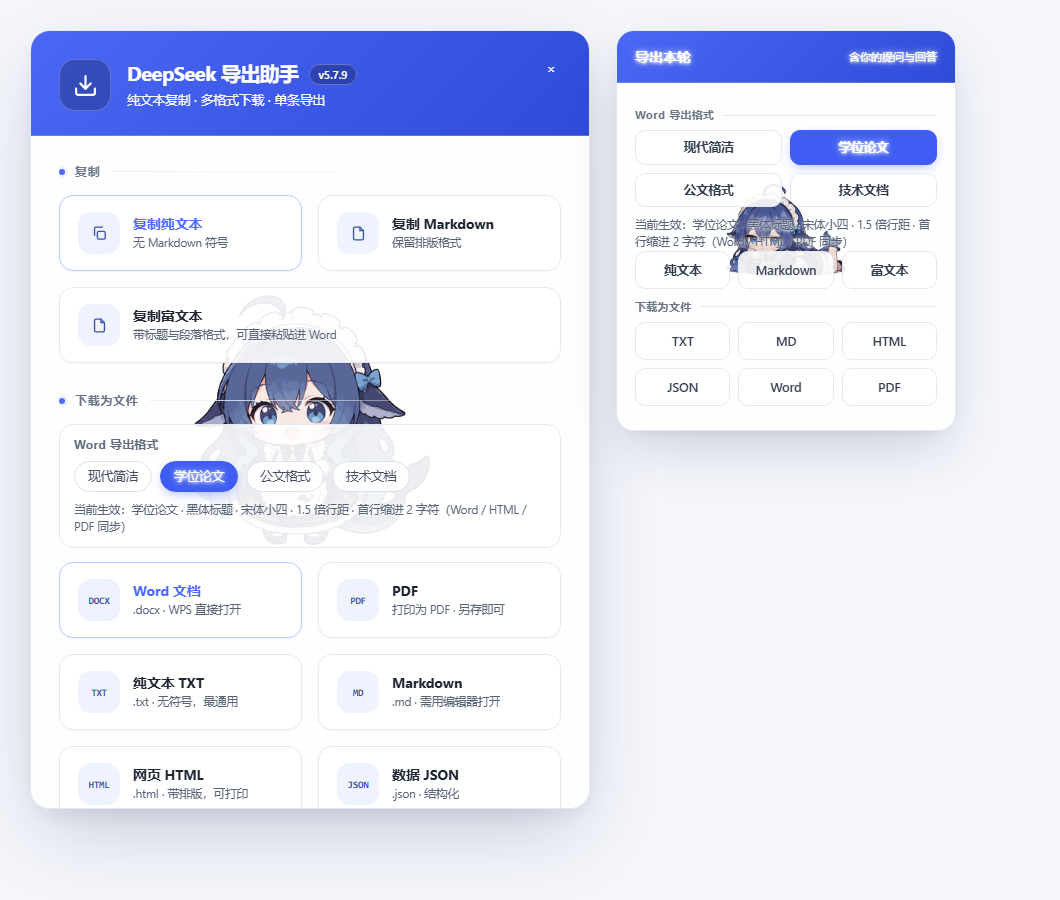
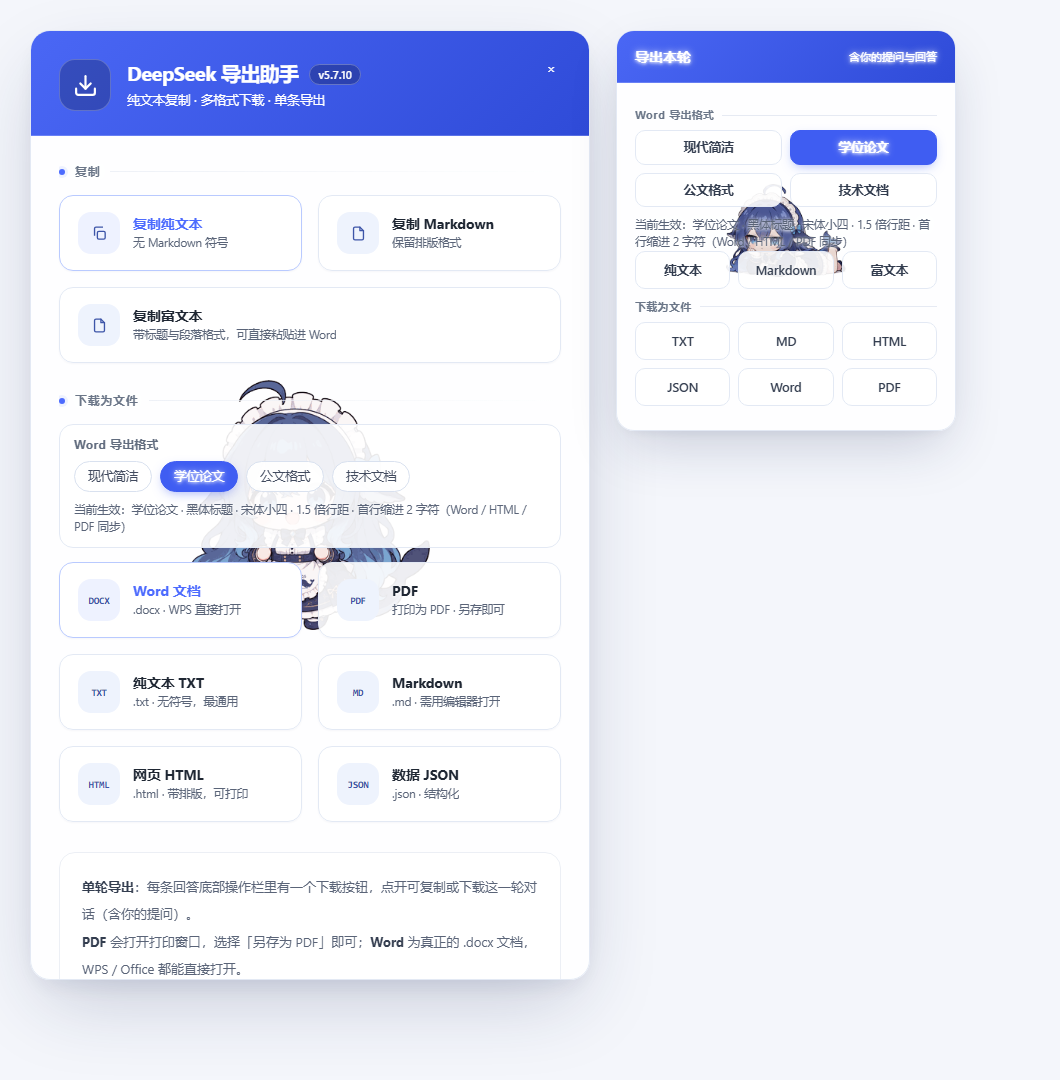
docs: 新增宣传横幅与完整界面截图

diff --git a/assets/banner-source.html b/assets/banner-source.html
@@ -1,0 +1,62 @@
+<!DOCTYPE html>
+<html lang="zh-CN">
+<head>
+<meta charset="UTF-8">
+<style>
+  *{box-sizing:border-box;margin:0;padding:0}
+  body{width:1200px;height:628px;font-family:-apple-system,"Segoe UI","PingFang SC","Microsoft YaHei",sans-serif;
+    background:linear-gradient(135deg,#0f1830 0%,#1e2f66 45%,#2f4bd8 100%);overflow:hidden;position:relative}
+  .glow{position:absolute;border-radius:50%;filter:blur(80px);opacity:.5}
+  .g1{width:520px;height:520px;background:#4d6bfe;top:-180px;right:-120px}
+  .g2{width:420px;height:420px;background:#22d3ee;bottom:-200px;left:-100px;opacity:.28}
+  .wrap{position:relative;z-index:2;padding:56px 60px;height:100%;display:flex;flex-direction:column}
+  .tag{display:inline-flex;align-items:center;gap:8px;align-self:flex-start;
+    background:rgba(255,255,255,.13);border:1px solid rgba(255,255,255,.26);color:#dbe4ff;
+    font-size:15px;font-weight:600;padding:8px 18px;border-radius:999px;backdrop-filter:blur(10px)}
+  h1{color:#fff;font-size:54px;font-weight:800;letter-spacing:-1.5px;line-height:1.16;margin:26px 0 0;
+    text-shadow:0 3px 20px rgba(0,0,0,.3)}
+  h1 em{font-style:normal;color:#7ee3c4;text-shadow:0 0 26px rgba(126,227,196,.42),0 3px 20px rgba(0,0,0,.3)}
+  .sub{color:#d3dcff;font-size:20px;margin:18px 0 0;line-height:1.55;max-width:640px}
+  .pills{display:flex;flex-wrap:wrap;gap:10px;margin:26px 0 0}
+  .pill{background:rgba(255,255,255,.14);border:1px solid rgba(255,255,255,.2);color:#e6ecff;
+    font-size:14.5px;font-weight:600;padding:8px 15px;border-radius:9px}
+  .pill.key{background:rgba(126,227,196,.2);border-color:rgba(126,227,196,.5);color:#b5f5e0}
+  .foot{margin-top:auto;display:flex;align-items:center;gap:16px;
+    background:rgba(10,18,40,.42);border:1px solid rgba(255,255,255,.14);border-radius:14px;padding:14px 20px;
+    width:max-content;max-width:100%;backdrop-filter:blur(12px)}
+  .foot .ico{width:38px;height:38px;border-radius:10px;background:linear-gradient(135deg,#4d6bfe,#2f4bd8);
+    display:flex;align-items:center;justify-content:center;font-size:19px;flex:none}
+  .foot .txt{font-size:14.5px;color:#dfe6ff;line-height:1.5}
+  .foot .txt b{color:#fff;font-size:16px;display:block;font-weight:700}
+  .foot .txt code{color:#8ef0d2;background:rgba(126,227,196,.12);padding:1px 6px;border-radius:5px;
+    font-size:13px;font-family:Consolas,monospace}
+  .badge{position:absolute;right:52px;bottom:44px;z-index:2;text-align:center;color:rgba(255,255,255,.5);
+    font-size:12.5px;letter-spacing:.4px;line-height:1.7}
+</style>
+</head>
+<body>
+  <div class="glow g1"></div><div class="glow g2"></div>
+  <div class="wrap">
+    <div class="tag">🛠 油猴脚本 · 开源免费</div>
+    <h1>DeepSeek 对话<br><em>一键导出</em>，格式不乱</h1>
+    <div class="sub">接口级提取，提问内容 100% 准确 · 保留标题层级、代码块与表格</div>
+    <div class="pills">
+      <div class="pill key">复制纯文本</div>
+      <div class="pill key">复制富文本</div>
+      <div class="pill">Word / PDF</div>
+      <div class="pill">Markdown</div>
+      <div class="pill">JSON / HTML</div>
+      <div class="pill">单条导出</div>
+      <div class="pill">自动清除 Emoji</div>
+    </div>
+    <div class="foot">
+      <div class="ico">⬇</div>
+      <div class="txt">
+        <b>30 秒安装 · 全程本地运行，不上传任何数据</b>
+        装 Tampermonkey 后打开 <code>raw.githubusercontent.com/xubbllanan-lab/deepseek-export-assistant</code>
+      </div>
+    </div>
+  </div>
+  <div class="badge">MIT License<br>xubbllanan-lab</div>
+</body>
+</html>
